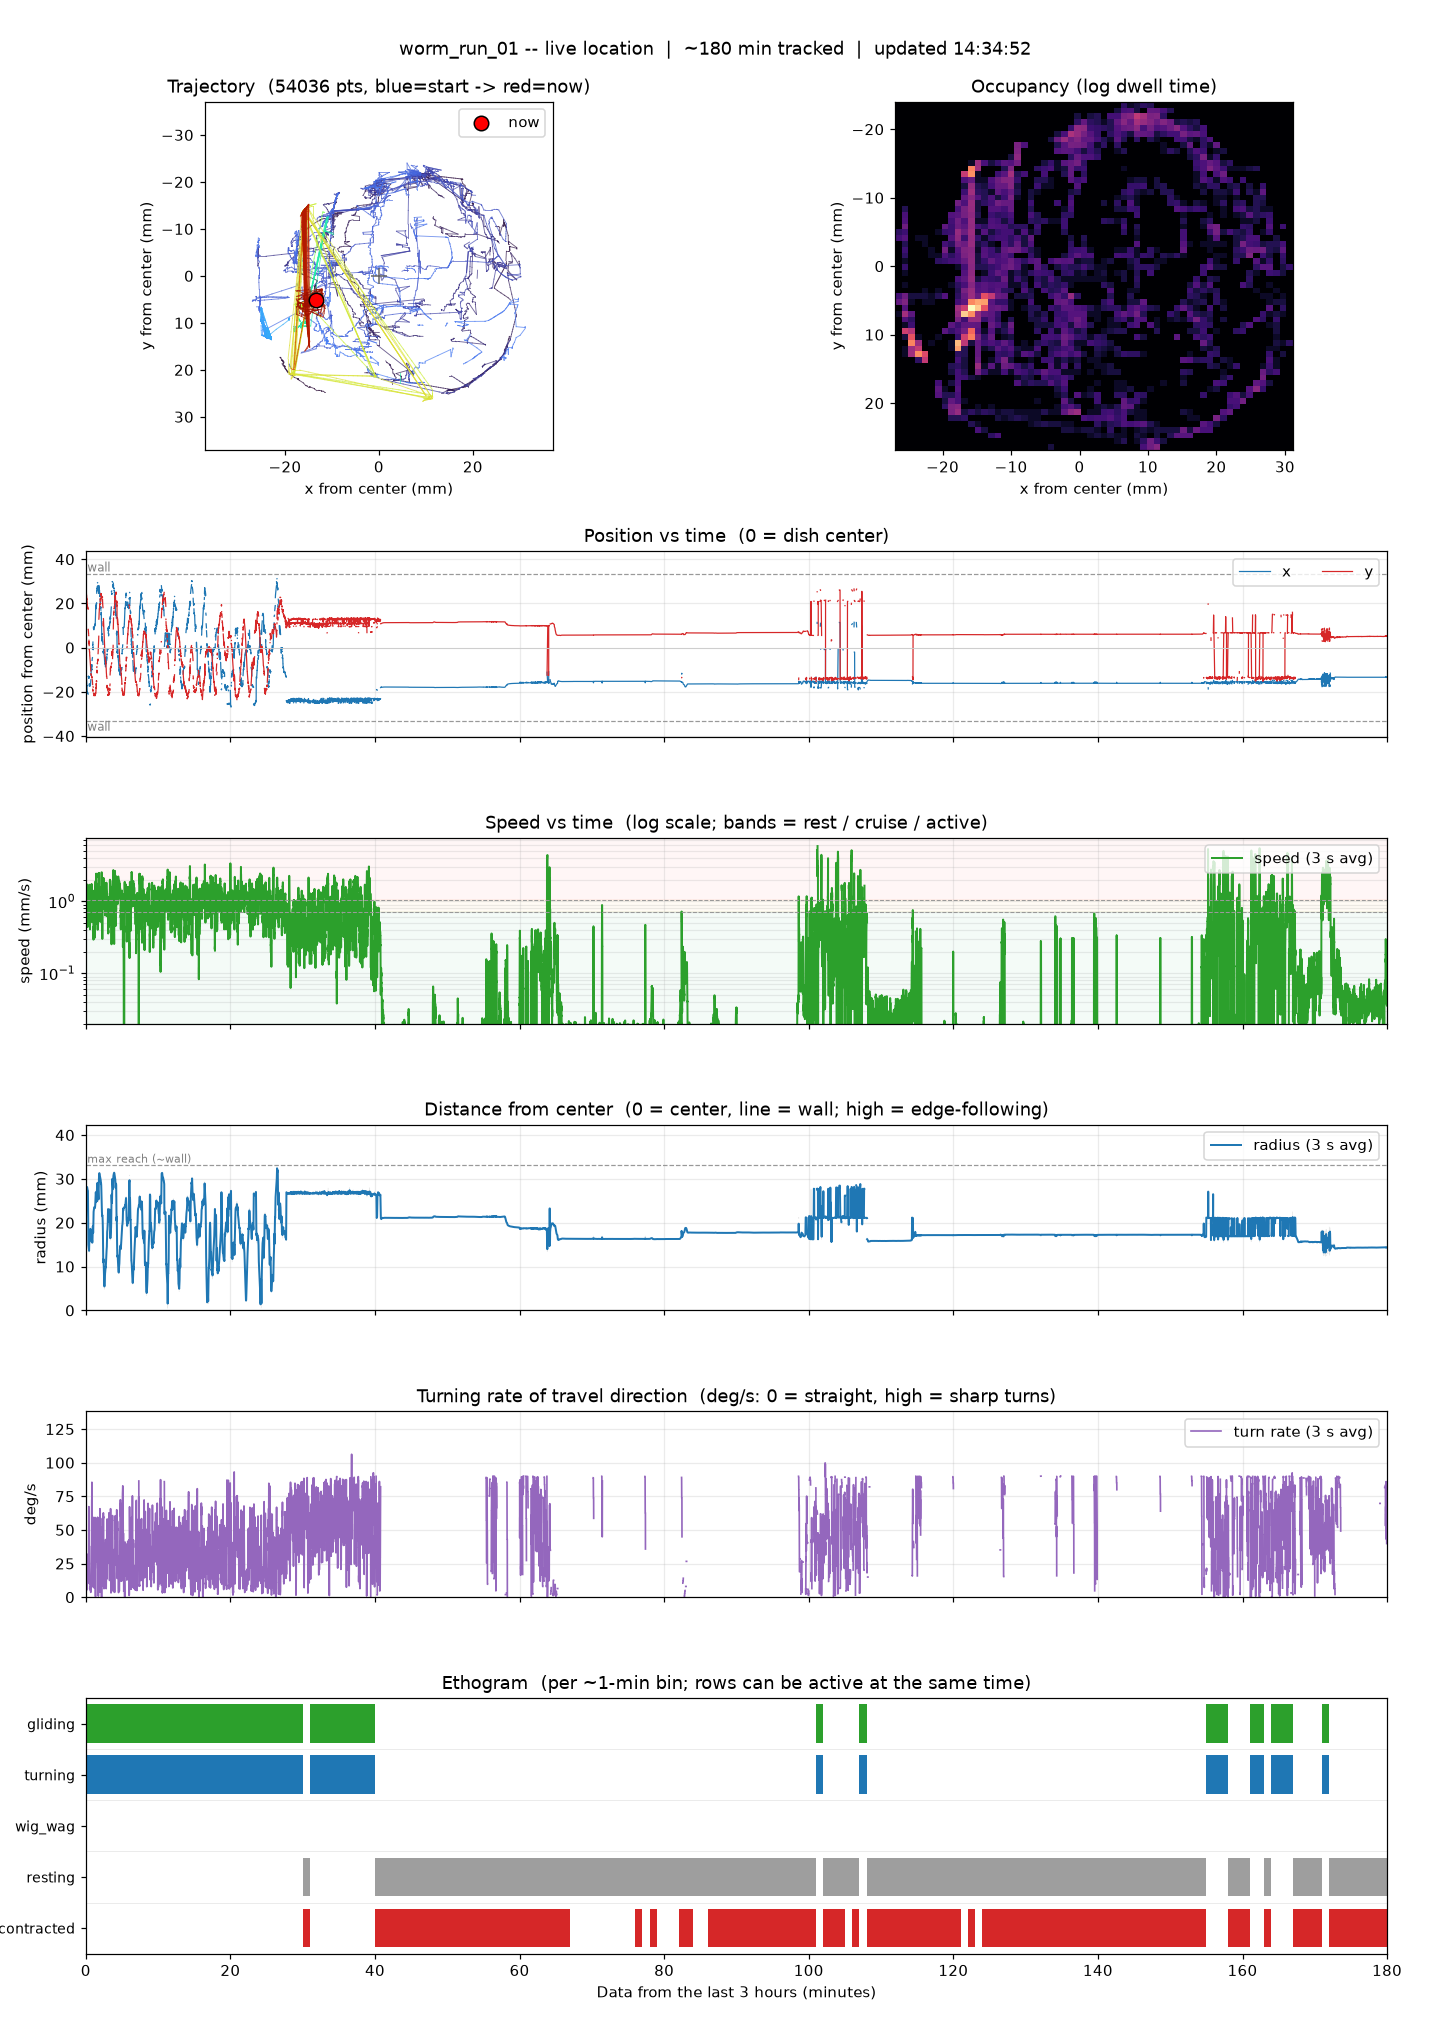
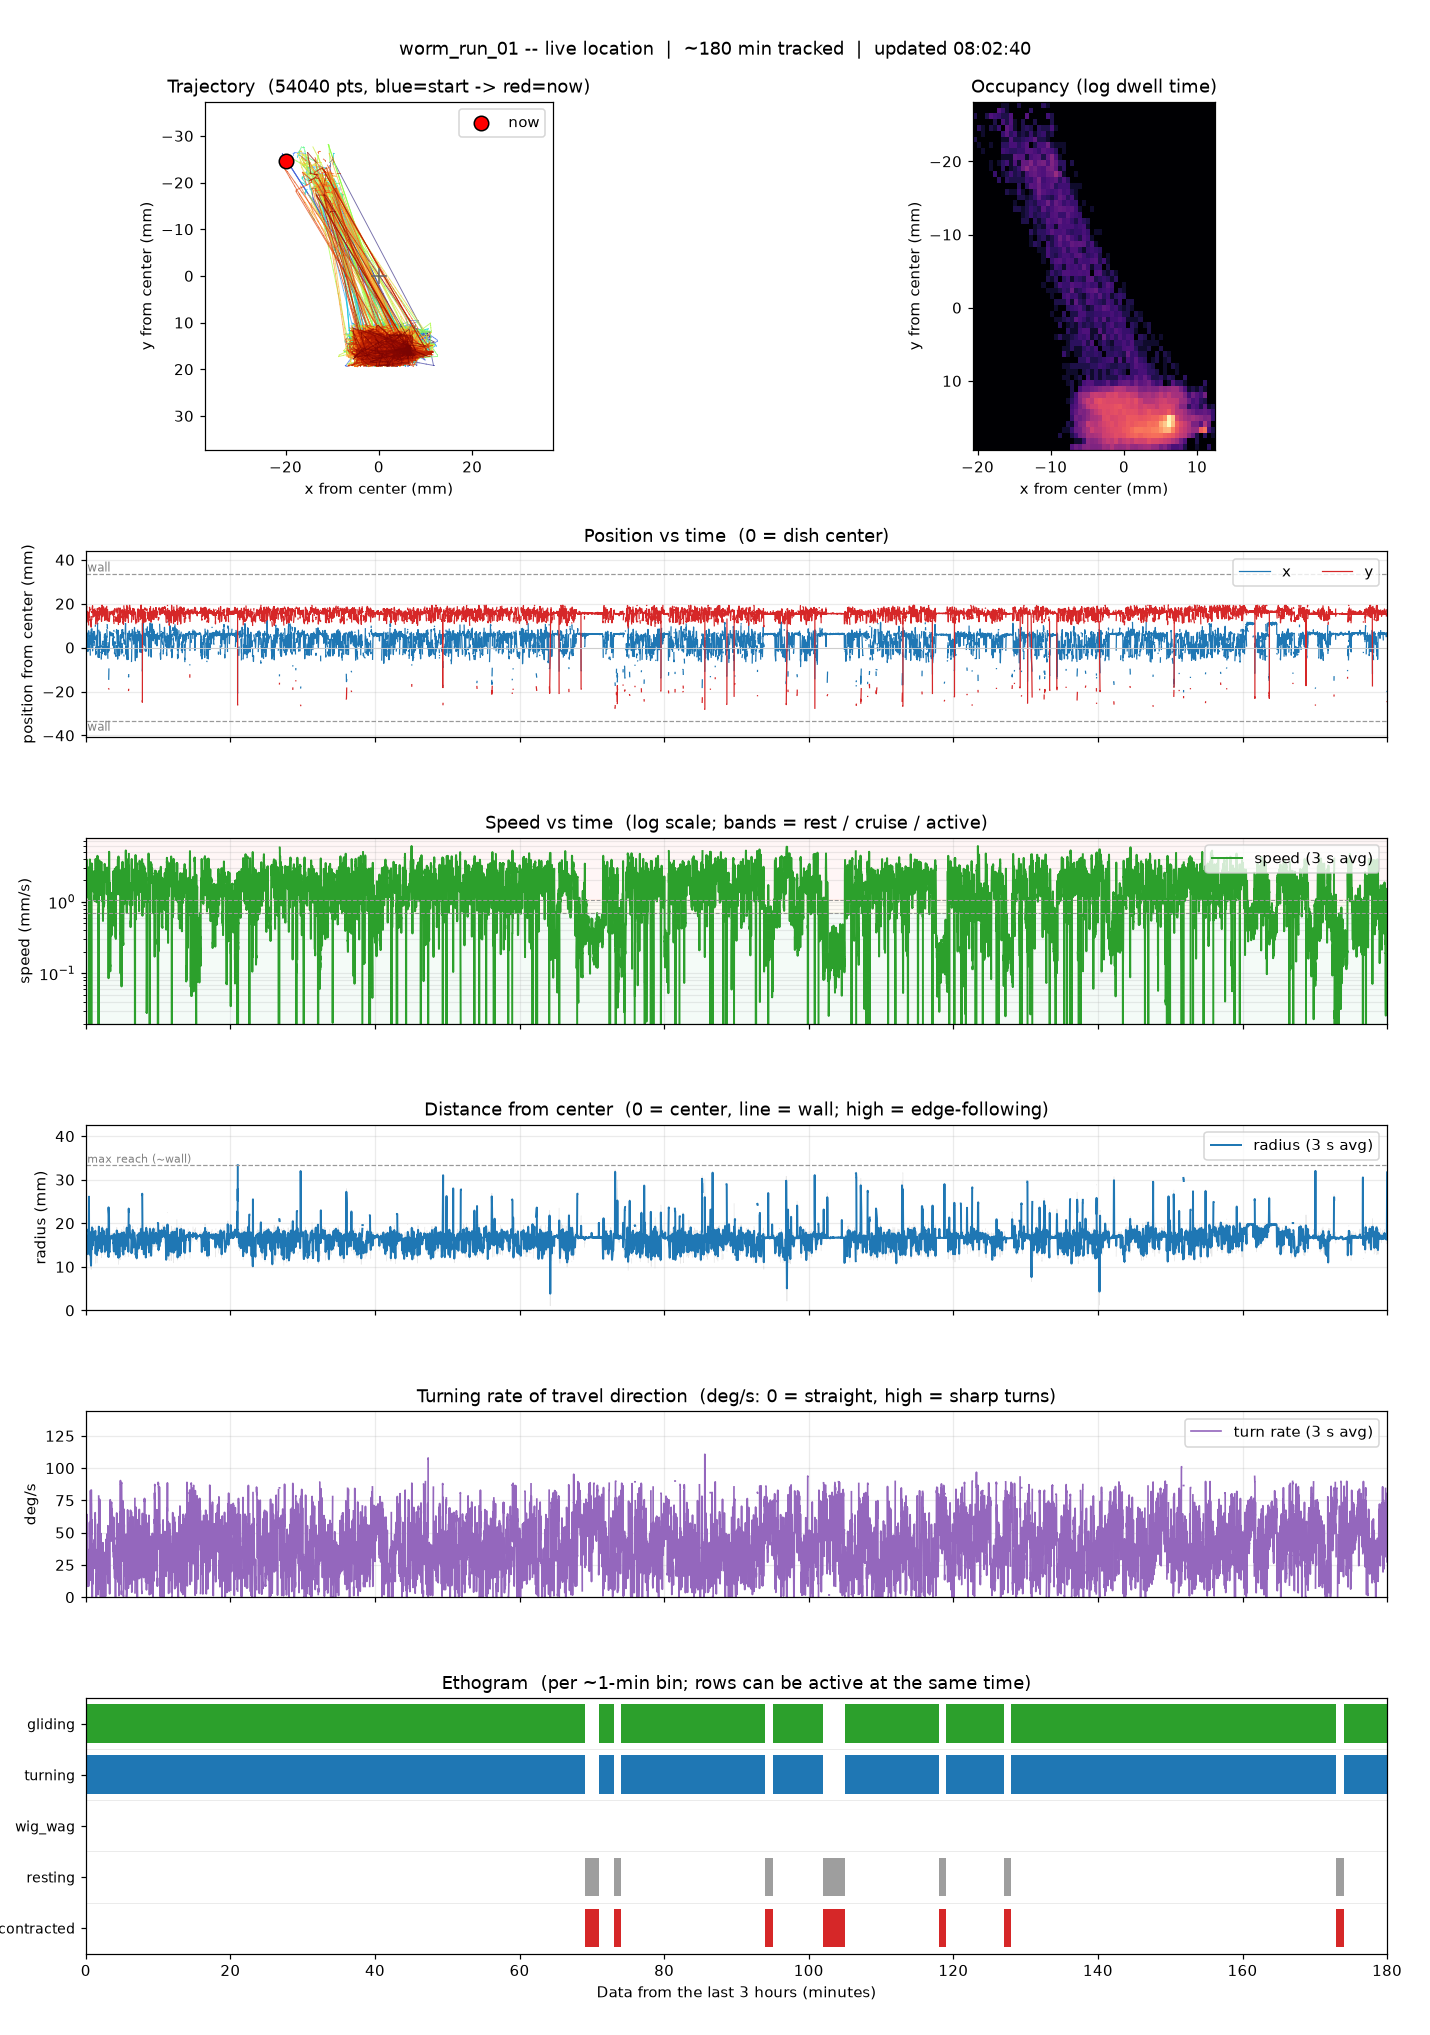
live plot

diff --git a/index.html b/index.html
@@ -74,7 +74,12 @@
     .delay { display:inline-block; margin-left:8px; padding:2px 8px; border-radius:999px;
              background:#21262d; color:var(--muted); font-size:.72rem; font-weight:500;
              vertical-align:middle; }
-    .card h2 .more { float:right; font-size:.82rem; font-weight:500; }
+    .history-cta { display:flex; align-items:center; justify-content:center; gap:9px;
+                   margin:0 0 20px; padding:15px 18px; border-radius:12px; text-decoration:none;
+                   background:rgba(63,185,80,.12); border:1px solid var(--accent); color:var(--accent);
+                   font-size:1.05rem; font-weight:650; transition:all .15s; }
+    .history-cta:hover { background:rgba(63,185,80,.22); box-shadow:0 0 16px rgba(63,185,80,.30); }
+    .history-cta .arrow { font-size:1.15em; line-height:1; }
     footer { text-align:center; color:var(--muted); font-size:.8rem; padding:8px 16px 32px; }
     a { color:#58a6ff; text-decoration:none; }
     /* lab-branded top bar (links back to the main lab site; echoes its cyber theme) */
@@ -211,7 +216,7 @@
     </div>
 
     <div class="card">
-      <h2>Live tracking <span class="delay">&#8776; 3 min behind the video</span><a href="history.html" class="more">View full history &rarr;</a></h2>
+      <h2>Live tracking <span class="delay">&#8776; 3 min behind the video</span></h2>
       <img id="plot" class="plot" src="live.png" alt="Live planarian tracking plots" />
       <div class="meta">
         <span>Tracking trails the live stream by about 3 minutes (the clip has to finish
@@ -219,6 +224,8 @@
         <span id="updated">refreshing&hellip;</span>
       </div>
     </div>
+
+    <a class="history-cta" href="history.html">View the full run history &mdash; every point since the start <span class="arrow">&rarr;</span></a>
 
     <div class="card">
       <h2>How it works</h2>